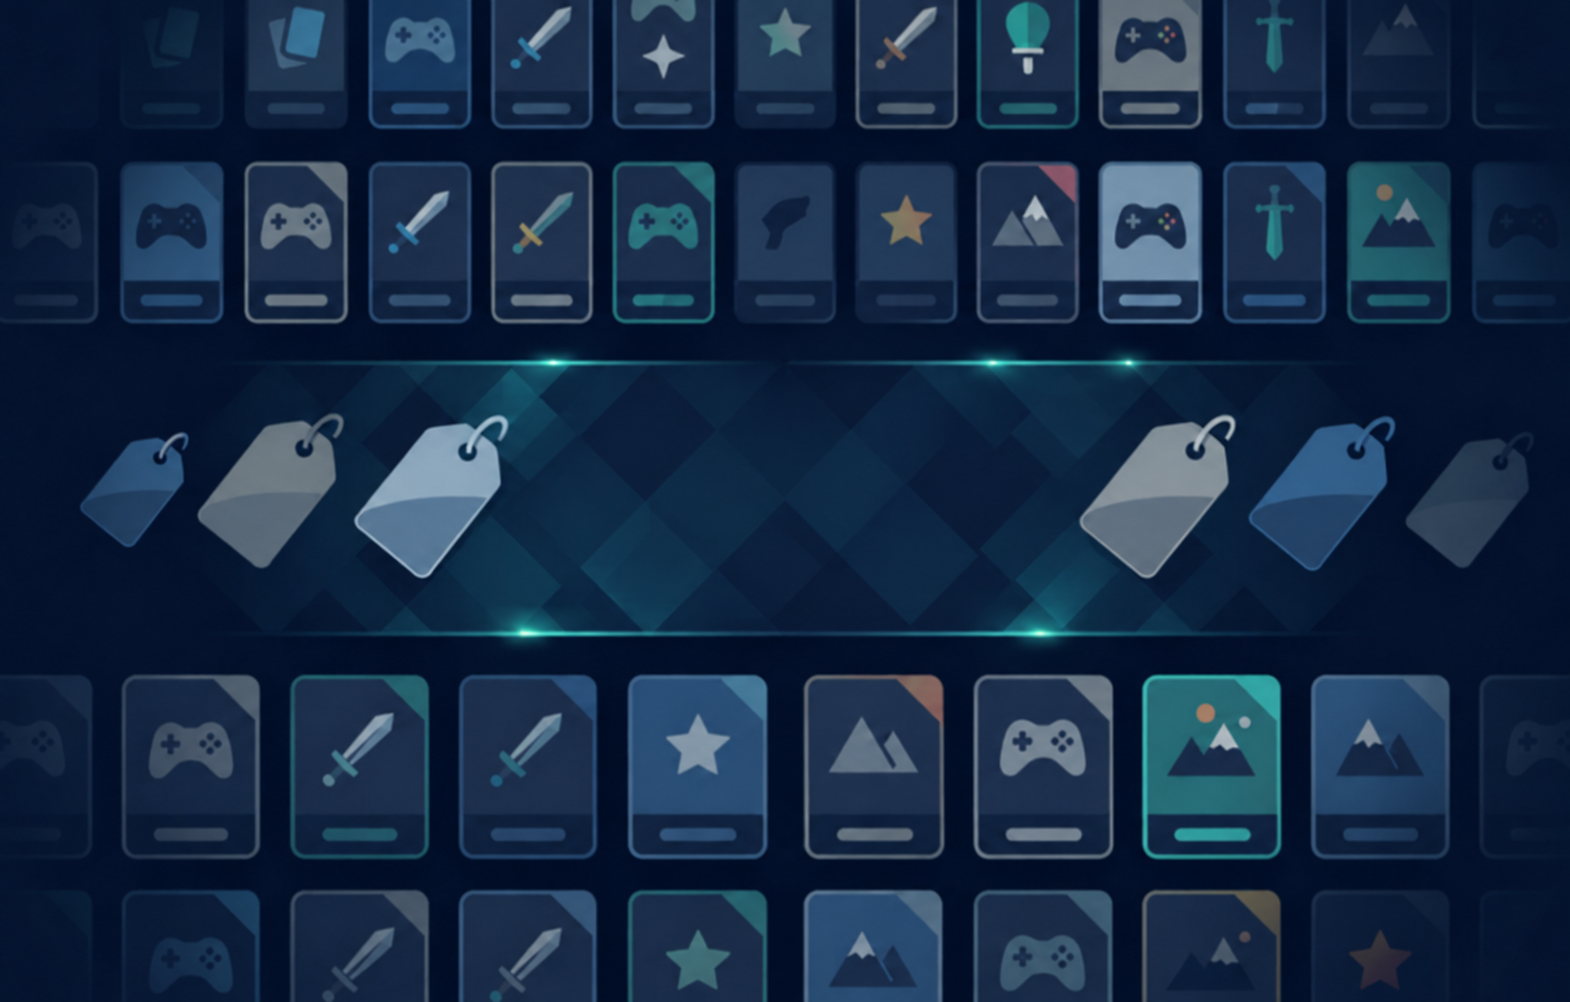
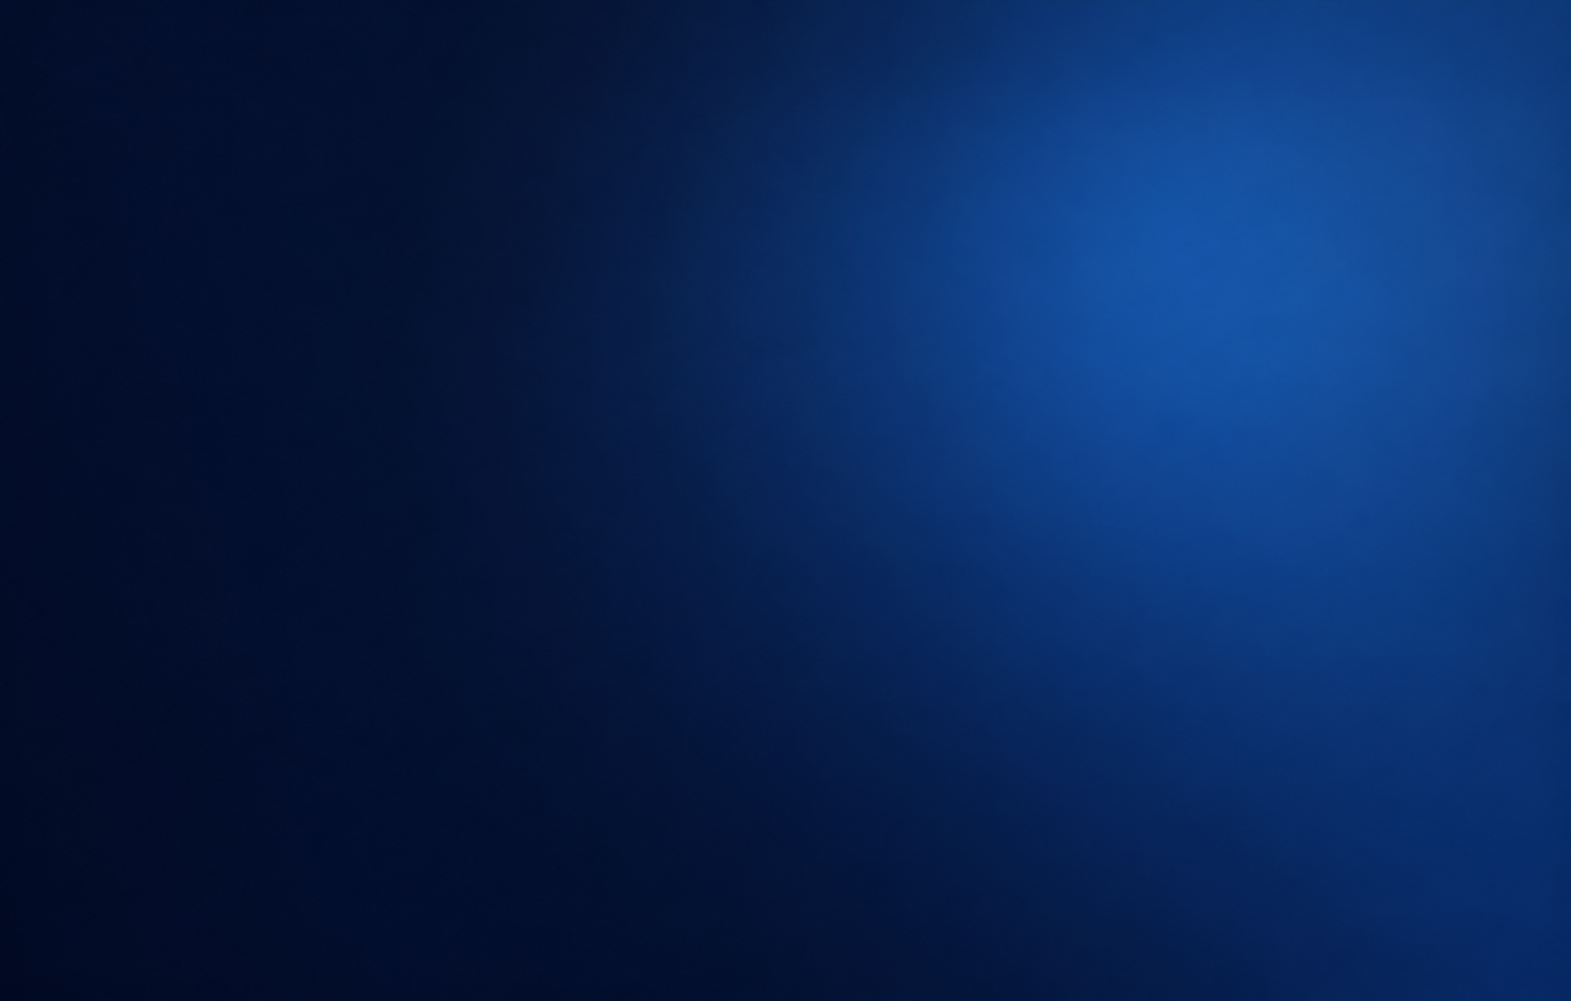
Simplify promo background and add extension name

diff --git a/docs/store-listing.md b/docs/store-listing.md
@@ -27,7 +27,7 @@ The extension works on public Store pages. It does not change prices in the cart
 ## Assets and release review
 
 - Use the extension icons in `public/icons/`. The 440 × 280 [small promotional image](../store-assets/promo-440x280.png) now uses the same green tag icon. Neither asset uses Valve's logo.
-- The promo combines [`assets/promo-background.png`](../assets/promo-background.png) with the exact transparent icon from [`assets/tag.png`](../assets/tag.png).
+- The promo combines the subtle gradient in [`assets/promo-background.png`](../assets/promo-background.png) with the exact transparent icon from [`assets/tag.png`](../assets/tag.png) and the extension name in Helvetica Neue.
 - Upload the promotional image separately in the Chrome Web Store Developer Dashboard. It appears on the [store homepage, category pages, and in search results](https://developer.chrome.com/docs/webstore/best-listing/); it is not part of the extension ZIP.
 - Include icon attribution in the listing: "Extension icon based on Solar Icons by 480 Design (CC BY 4.0)." Link to the [original icon set](https://www.figma.com/community/file/1166831539721848736) and [license](https://creativecommons.org/licenses/by/4.0/).
 - The 1280 × 800 screenshot in `store-assets/` was captured from the installed extension on a public Steam Store page. Review it against the current release, and capture a new screenshot if the display changes.
